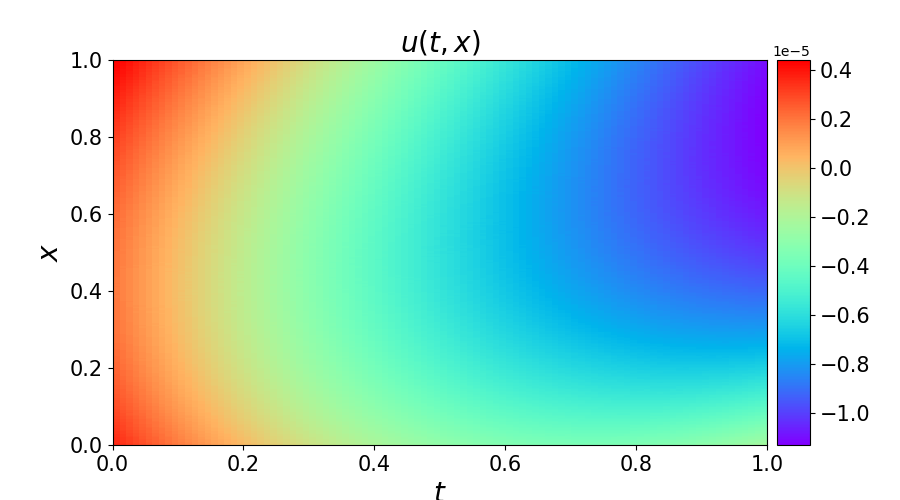
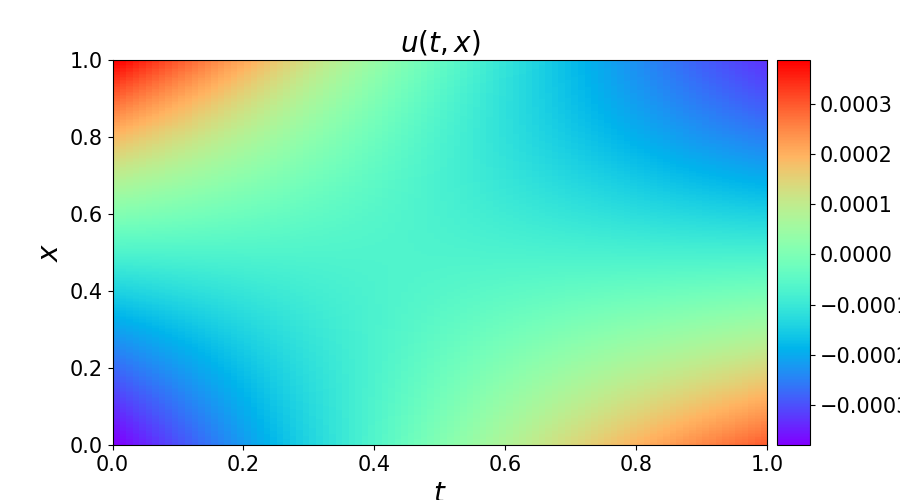
fix

diff --git a/Aupported_Beam_Equation/plot_result.py b/Aupported_Beam_Equation/plot_result.py
@@ -11,7 +11,7 @@ from model import *
 
 
 if __name__ == '__main__':
-    data = scipy.io.loadmat("pred-8.mat")
+    data = scipy.io.loadmat("pred-9.mat")
     u_pred = np.real(data["u_pred"])
     
     
@@ -59,7 +59,7 @@ if __name__ == '__main__':
     # fig = plt.figure(figsize=(9, 5))
     ax = fig.add_subplot(111)
 
-    ax.plot(t, U_pred[:, 255]*1e+5, "r--", linewidth=2, label="Prediction")
+    ax.plot(t, U_pred[:, 255]*1e+3, "r--", linewidth=2, label="Prediction")
     ax.set_xlabel("$t$")
     ax.set_ylabel("$u(t,x)$")
     ax.set_title("$x = 1$", fontsize=15)

diff --git a/Aupported_Beam_Equation/model.py b/Aupported_Beam_Equation/model.py
@@ -96,7 +96,7 @@ class PhysicsInformedNN:
         # optimizers: using the same settings
         self.optimizer = torch.optim.LBFGS(
             self.dnn.parameters(),
-            lr=0.1,
+            lr=1,
             max_iter=5000,
             max_eval=5000,
             history_size=50,

diff --git a/Aupported_Beam_Equation/Aupported_Beam_Equation.py b/Aupported_Beam_Equation/Aupported_Beam_Equation.py
@@ -24,7 +24,7 @@ if __name__ == "__main__":
 
     N_u = 100
     N_f = 10000
-    layers = [2, 20, 20, 20, 20, 1]
+    layers = [2, 20, 20, 20, 1]
 
     data = scipy.io.loadmat("Aupported_Beam_Equation/data/burgers_shock.mat")
 
